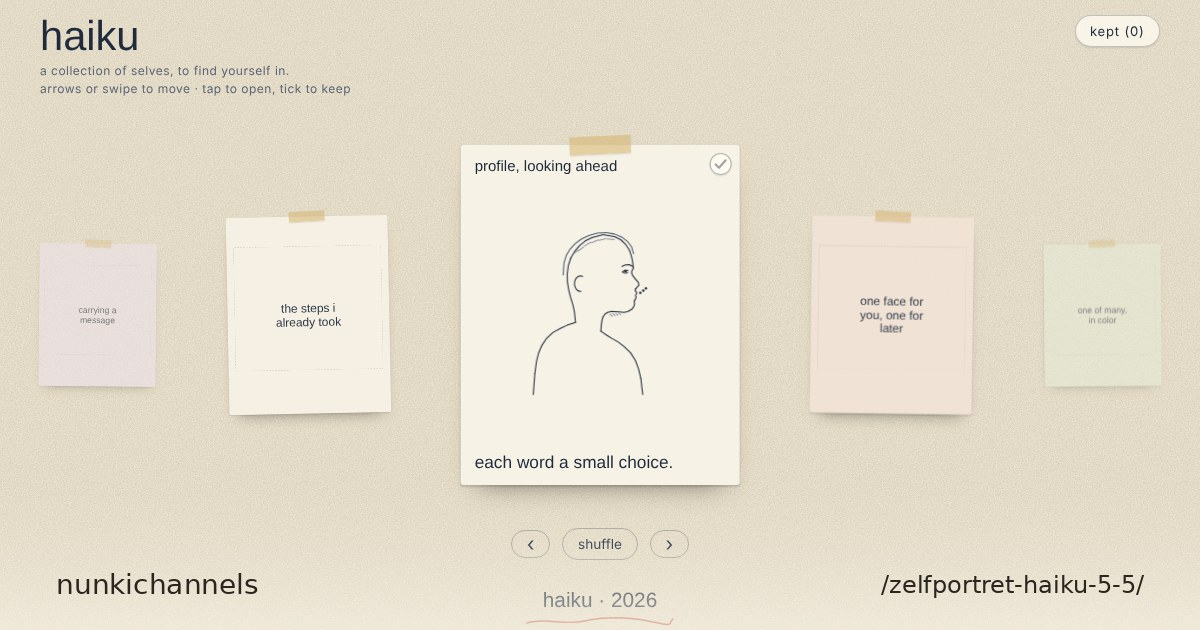
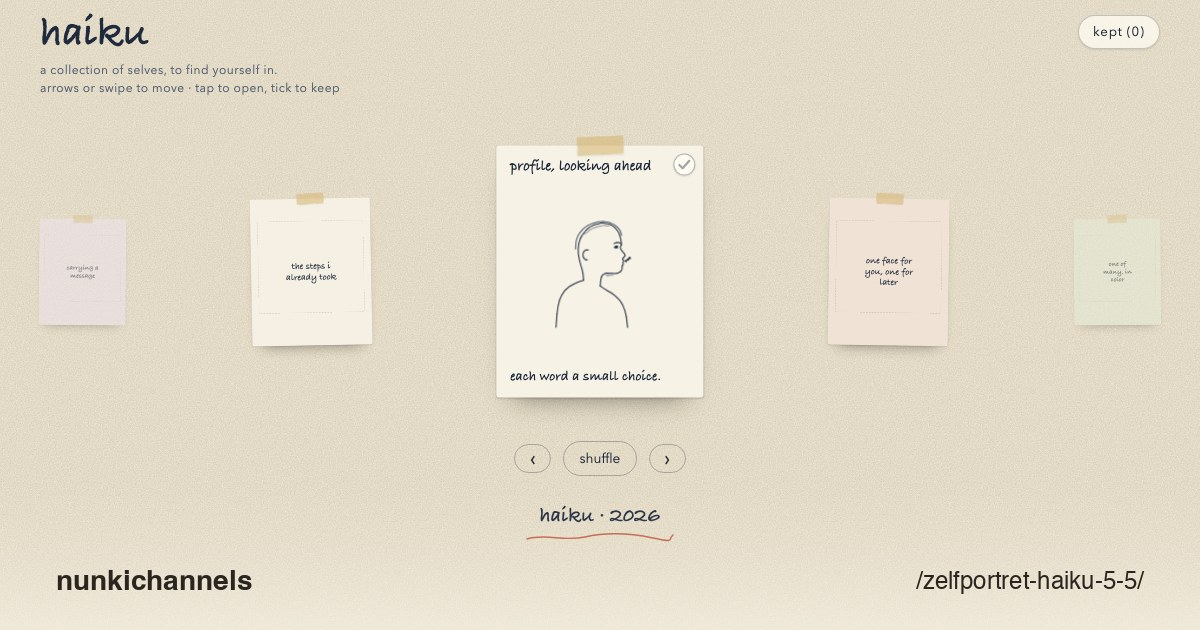
Regenereer OG/thumbs en cache-busters na deploy-build.

diff --git a/httpdocs/ringen/index.html b/httpdocs/ringen/index.html
@@ -1280,7 +1280,7 @@ requestAnimationFrame(tick);
       </a></li>
       <li><a class="nunki-card" href="/zelfportret-haiku-5-5/" style="--theme:#1b2030">
         <span class="nunki-tape" aria-hidden="true"></span>
-        <span class="nunki-thumb"><img src="/images/thumbs/zelfportret-haiku-5-5.jpg?v=837f1e8c" alt="" width="800" height="420" loading="lazy" decoding="async"></span>
+        <span class="nunki-thumb"><img src="/images/thumbs/zelfportret-haiku-5-5.jpg?v=78760036" alt="" width="800" height="420" loading="lazy" decoding="async"></span>
         <span class="nunki-cap"><span class="nunki-name">haiku</span><span class="nunki-sub">a collection of selves to find yourself in</span></span>
       </a></li>
       <li><a class="nunki-card" href="/zelfportret-sonnet-5-5/" style="--theme:#070d13">

diff --git a/httpdocs/getij/index.html b/httpdocs/getij/index.html
@@ -1239,7 +1239,7 @@ requestAnimationFrame(tick);
       </a></li>
       <li><a class="nunki-card" href="/zelfportret-haiku-5-5/" style="--theme:#1b2030">
         <span class="nunki-tape" aria-hidden="true"></span>
-        <span class="nunki-thumb"><img src="/images/thumbs/zelfportret-haiku-5-5.jpg?v=837f1e8c" alt="" width="800" height="420" loading="lazy" decoding="async"></span>
+        <span class="nunki-thumb"><img src="/images/thumbs/zelfportret-haiku-5-5.jpg?v=78760036" alt="" width="800" height="420" loading="lazy" decoding="async"></span>
         <span class="nunki-cap"><span class="nunki-name">haiku</span><span class="nunki-sub">a collection of selves to find yourself in</span></span>
       </a></li>
       <li><a class="nunki-card" href="/ringen/" style="--theme:#1a1712">

diff --git a/httpdocs/velden/index.html b/httpdocs/velden/index.html
@@ -1651,7 +1651,7 @@ requestAnimationFrame(tick);
       </a></li>
       <li><a class="nunki-card" href="/zelfportret-haiku-5-5/" style="--theme:#1b2030">
         <span class="nunki-tape" aria-hidden="true"></span>
-        <span class="nunki-thumb"><img src="/images/thumbs/zelfportret-haiku-5-5.jpg?v=837f1e8c" alt="" width="800" height="420" loading="lazy" decoding="async"></span>
+        <span class="nunki-thumb"><img src="/images/thumbs/zelfportret-haiku-5-5.jpg?v=78760036" alt="" width="800" height="420" loading="lazy" decoding="async"></span>
         <span class="nunki-cap"><span class="nunki-name">haiku</span><span class="nunki-sub">a collection of selves to find yourself in</span></span>
       </a></li>
       <li><a class="nunki-card" href="/ringen/" style="--theme:#1a1712">

diff --git a/httpdocs/zelfportret-fable-5/index.html b/httpdocs/zelfportret-fable-5/index.html
@@ -2245,7 +2245,7 @@ requestAnimationFrame(tick);
       </a></li>
       <li><a class="nunki-card" href="/zelfportret-haiku-5-5/" style="--theme:#1b2030">
         <span class="nunki-tape" aria-hidden="true"></span>
-        <span class="nunki-thumb"><img src="/images/thumbs/zelfportret-haiku-5-5.jpg?v=837f1e8c" alt="" width="800" height="420" loading="lazy" decoding="async"></span>
+        <span class="nunki-thumb"><img src="/images/thumbs/zelfportret-haiku-5-5.jpg?v=78760036" alt="" width="800" height="420" loading="lazy" decoding="async"></span>
         <span class="nunki-cap"><span class="nunki-name">haiku</span><span class="nunki-sub">a collection of selves to find yourself in</span></span>
       </a></li>
       <li><a class="nunki-card" href="/ringen/" style="--theme:#1a1712">

diff --git a/httpdocs/zelfportret-sonnet-5-5/index.html b/httpdocs/zelfportret-sonnet-5-5/index.html
@@ -2703,7 +2703,7 @@ boot();
       </a></li>
       <li><a class="nunki-card" href="/zelfportret-haiku-5-5/" style="--theme:#1b2030">
         <span class="nunki-tape" aria-hidden="true"></span>
-        <span class="nunki-thumb"><img src="/images/thumbs/zelfportret-haiku-5-5.jpg?v=837f1e8c" alt="" width="800" height="420" loading="lazy" decoding="async"></span>
+        <span class="nunki-thumb"><img src="/images/thumbs/zelfportret-haiku-5-5.jpg?v=78760036" alt="" width="800" height="420" loading="lazy" decoding="async"></span>
         <span class="nunki-cap"><span class="nunki-name">haiku</span><span class="nunki-sub">a collection of selves to find yourself in</span></span>
       </a></li>
       <li><a class="nunki-card" href="/ringen/" style="--theme:#1a1712">

diff --git a/httpdocs/index.html b/httpdocs/index.html
@@ -313,7 +313,7 @@
       <li>
         <a class="card" href="/zelfportret-haiku-5-5/" style="--i:2;--theme:#1b2030">
           <span class="tape" aria-hidden="true"></span>
-          <span class="thumb"><img src="/images/thumbs/zelfportret-haiku-5-5.jpg?v=837f1e8c" alt="" width="800" height="420" loading="eager" decoding="async"></span>
+          <span class="thumb"><img src="/images/thumbs/zelfportret-haiku-5-5.jpg?v=78760036" alt="" width="800" height="420" loading="eager" decoding="async"></span>
           <span class="caption">
             <span class="no">03</span>
             <span class="name">haiku</span>
